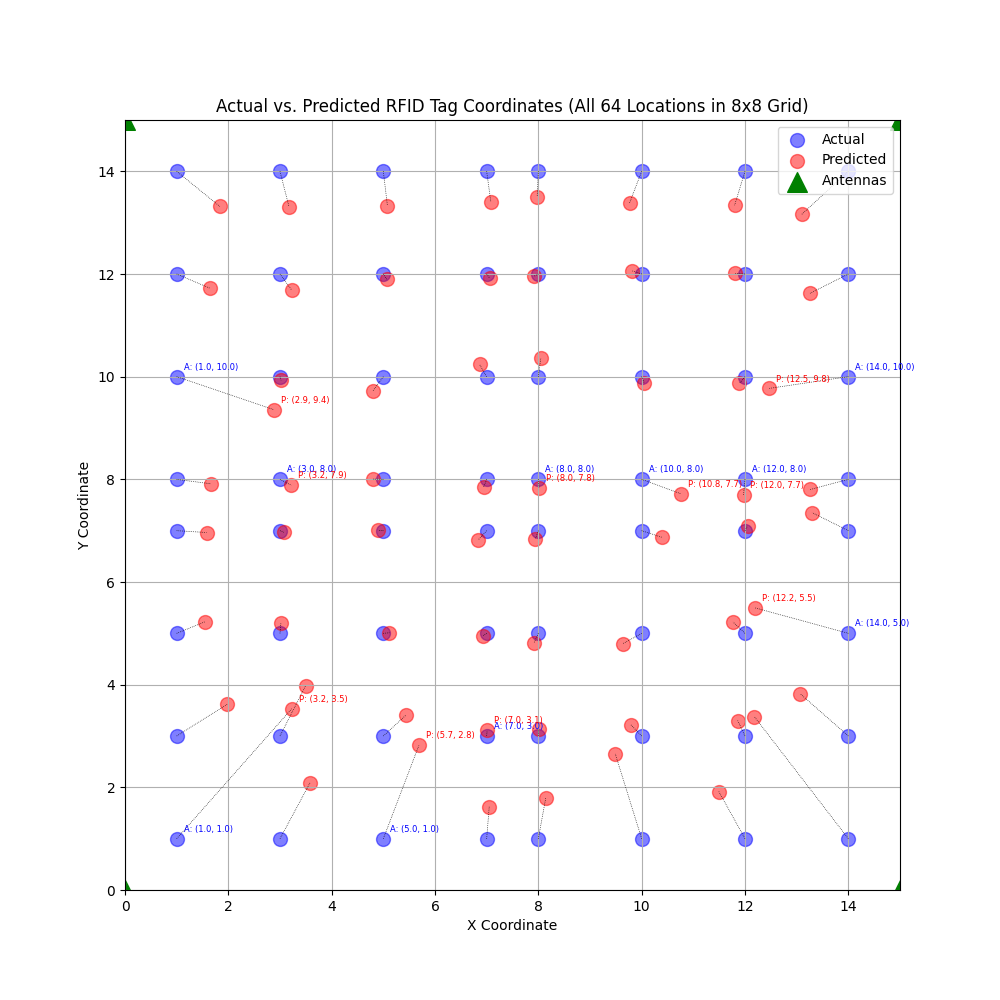
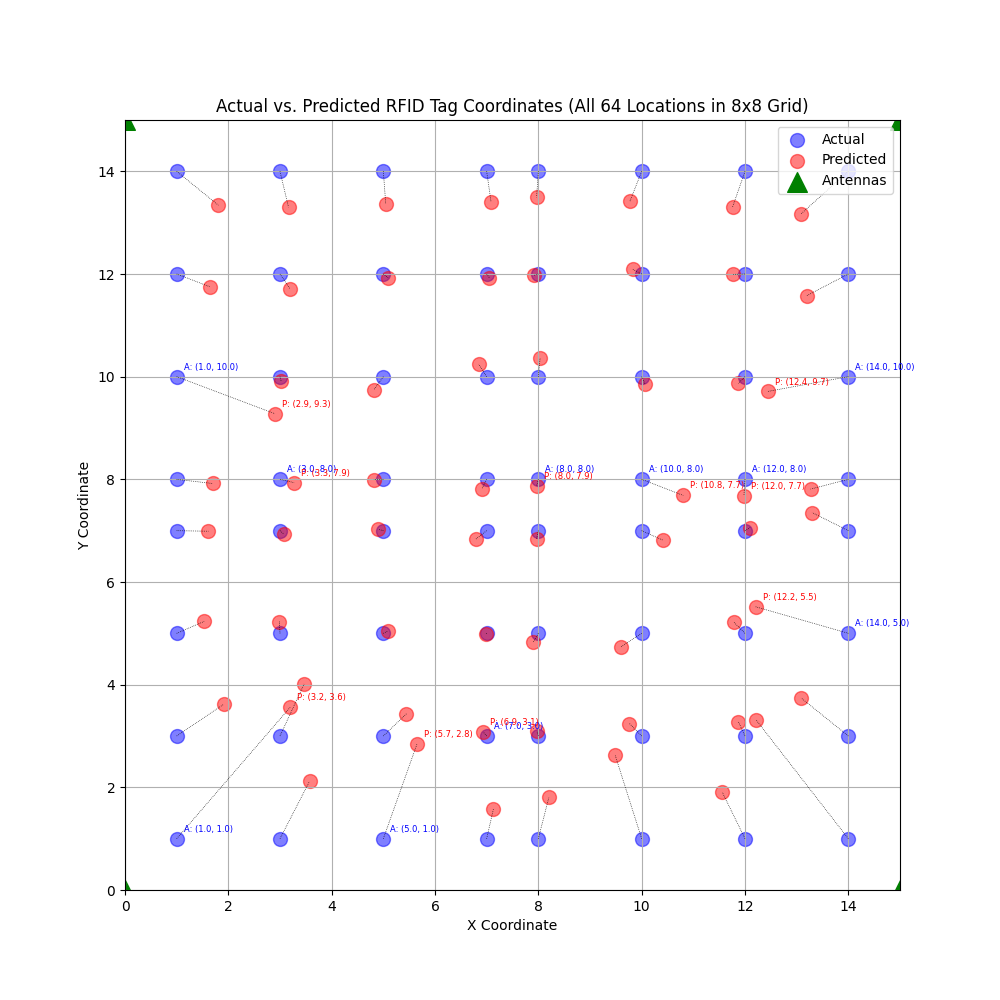
model compare

diff --git a/Models/randomForest.py b/Models/randomForest.py
@@ -2,13 +2,10 @@ import pandas as pd
 import numpy as np
 import glob
 import os
-from sklearn.model_selection import train_test_split
-from sklearn.ensemble import RandomForestRegressor, GradientBoostingRegressor
-from sklearn.svm import SVR
-from sklearn.multioutput import MultiOutputRegressor
+from sklearn.model_selection import train_test_split, RandomizedSearchCV
+from sklearn.ensemble import RandomForestRegressor
 from sklearn.preprocessing import StandardScaler
 from sklearn.metrics import mean_squared_error
-from lightgbm import LGBMRegressor
 import matplotlib.pyplot as plt
 import warnings
 warnings.filterwarnings('ignore')  # Suppress warnings for cleaner output
@@ -18,7 +15,7 @@ warnings.filterwarnings('ignore')  # Suppress warnings for cleaner output
 ######################################################
 
 # Directory for CSV files
-data_dir = '/Users/calebrozenboom/Documents/RFID_Project/RFID-Locate-main/Testing/Test8/'
+data_dir = '/Users/calebrozenboom/Documents/RFID_Project/RFID-Locate-main/Testing/Movement Testing/CircleTests/CircleTest0'
 
 ######################################################
 #--------- DATA LOADING AND PER-LOCATION PROCESSING --#
@@ -97,80 +94,41 @@ X = scaler.fit_transform(X)
 # Split data into training (80%) and testing (20%) sets
 X_train, X_test, y_train, y_test = train_test_split(X, y, test_size=0.2, random_state=42)
 
-# Define models to compare
-models = {
-    'RandomForest': RandomForestRegressor(n_estimators=1000, max_depth=30, min_samples_split=2, min_samples_leaf=1, max_features='sqrt', random_state=42, n_jobs=-1),
-    'GradientBoosting': GradientBoostingRegressor(n_estimators=1000, learning_rate=0.05, max_depth=5, random_state=42),
-    'SVR': MultiOutputRegressor(SVR(kernel='rbf', C=1.0, epsilon=0.1)),
-    'LightGBM': MultiOutputRegressor(LGBMRegressor(n_estimators=1000, learning_rate=0.05, max_depth=5, random_state=42))
+# Define hyperparameter grid for tuning
+param_grid = {
+    'n_estimators': [800, 1000, 1500, 2000],
+    'max_depth': [30, 35, 40, 45, 50],
+    'min_samples_split': [2, 5, 10],
+    'min_samples_leaf': [1, 2, 3]
 }
 
-# Train and evaluate each model
-results = {}
-best_model = None
-best_mse_avg = float('inf')
+# Perform randomized search with cross-validation
+grid_search = RandomizedSearchCV(
+    RandomForestRegressor(random_state=42),
+    param_grid,
+    n_iter=60,  # Test n random combinations
+    cv=5,
+    scoring='neg_mean_squared_error',
+    n_jobs=-1  # Use all available CPU cores
+)
+grid_search.fit(X_train, y_train)
 
-for name, model in models.items():
-    # Train the model
-    model.fit(X_train, y_train)
-    
-    # Predict on test set
-    y_pred = model.predict(X_test)
-    
-    # Calculate MSE for x and y coordinates
-    mse = mean_squared_error(y_test, y_pred, multioutput='raw_values')
-    mse_avg = np.mean(mse)  # Average MSE across x and y for model selection
-    results[name] = {'mse_x': mse[0], 'mse_y': mse[1], 'mse_avg': mse_avg}
-    
-    # Update best model if average MSE is lower
-    if mse_avg < best_mse_avg:
-        best_mse_avg = mse_avg
-        best_model = (name, model)
-    
-    print(f"{name} Test Set MSE (x, y): {mse[0]:.2f}, {mse[1]:.2f} | Average MSE: {mse_avg:.2f}")
+# Get best model and parameters
+rf_model = grid_search.best_estimator_
+print(f"Best parameters: {grid_search.best_params_}")
+print(f"Best cross-validation MSE: {-grid_search.best_score_:.2f}")
 
-# Print best model
-print(f"\nBest Model: {best_model[0]} with Average MSE: {best_mse_avg:.2f}")
-
-# Define hyperparameter grid for tuning
-# param_grid = {
-#     'n_estimators': [800, 1000, 1500, 2000],
-#     'max_depth': [30, 35, 40, 45, 50],
-#     'min_samples_split': [2, 5, 10],
-#     'min_samples_leaf': [1, 2, 3]
-# }
-
-# # Perform randomized search with cross-validation
-# grid_search = RandomizedSearchCV(
-#     RandomForestRegressor(random_state=42),
-#     param_grid,
-#     n_iter=60,  # Test n random combinations
-#     cv=5,
-#     scoring='neg_mean_squared_error',
-#     n_jobs=-1  # Use all available CPU cores
-# )
-# grid_search.fit(X_train, y_train)
-
-# # Get best model and parameters
-# rf_model = grid_search.best_estimator_
-# print(f"Best parameters: {grid_search.best_params_}")
-# print(f"Best cross-validation MSE: {-grid_search.best_score_:.2f}")
-
-# # Evaluate model on test set
-# y_pred = rf_model.predict(X_test)
-# mse = mean_squared_error(y_test, y_pred, multioutput='raw_values')
-# print(f"Test Set MSE (x, y): {mse[0]:.2f}, {mse[1]:.2f}")
+# Evaluate model on test set
+y_pred = rf_model.predict(X_test)
+mse = mean_squared_error(y_test, y_pred, multioutput='raw_values')
+print(f"Test Set MSE (x, y): {mse[0]:.2f}, {mse[1]:.2f}")
 
 ######################################################
 #------------------- PREDICTION ---------------------#
 ######################################################
 
-# Use best model for predictions
-best_model_name, best_model_instance = best_model
-y_pred = best_model_instance.predict(X_test)
-
 # Predict coordinates for the test set
-#y_pred = rf_model.predict(X_test)
+y_pred = rf_model.predict(X_test)
 #print(f"Predicted coordinates for the test set: {y_pred}")
 
 ######################################################
@@ -180,8 +138,7 @@ y_pred = best_model_instance.predict(X_test)
 # Create scatter plot of actual vs. predicted coordinates for all locations
 plt.figure(figsize=(10, 10))  # Larger figure for clarity
 plt.scatter(y['x_coord'], y['y_coord'], color='blue', label='Actual', alpha=0.5, s=100)
-y_pred_all = best_model_instance.predict(X)  # Predict for all data
-#y_pred_all = rf_model.predict(X)  # Predict for all data
+y_pred_all = rf_model.predict(X)  # Predict for all data
 plt.scatter(y_pred_all[:, 0], y_pred_all[:, 1], color='red', label='Predicted', alpha=0.5, s=100)
 
 # Add dotted lines between actual and predicted points
@@ -213,7 +170,7 @@ plt.xlim(0, 15)  # Cover tags (1 to 14) and antennas
 plt.ylim(0, 15)
 plt.grid(True)
 plt.legend()
-plt.savefig('coordinates_plot.png')
+plt.savefig('randomForest.png')
 plt.close()
 
-print("Scatter plot for all locations saved as 'coordinates_plot.png'")
+print("Scatter plot for all locations saved as 'randomForest.png'")

diff --git a/Models/modelCompare.py b/Models/modelCompare.py
@@ -1,0 +1,140 @@
+import pandas as pd
+import numpy as np
+import glob
+import os
+from sklearn.model_selection import train_test_split, GridSearchCV
+from sklearn.ensemble import RandomForestRegressor, GradientBoostingRegressor
+from sklearn.svm import SVR
+from sklearn.multioutput import MultiOutputRegressor
+from lightgbm import LGBMRegressor
+from sklearn.metrics import mean_squared_error, mean_absolute_error
+import matplotlib.pyplot as plt
+import warnings
+
+# Suppress LightGBM warnings
+warnings.filterwarnings("ignore", category=UserWarning, module="lightgbm")
+
+# Load and preprocess data
+data_dir = '/Users/calebrozenboom/Documents/RFID_Project/RFID-Locate-main/Testing/Test8/'
+all_files = glob.glob(os.path.join(data_dir, '*.csv'))
+
+data_list = []
+for file in all_files:
+    # Extract coordinates from filename, e.g., (1,1).csv -> x=1, y=1
+    filename = os.path.basename(file)
+    coords = filename.replace('.csv', '').strip('()').split(',')
+    x_coord, y_coord = float(coords[0]), float(coords[1])
+    
+    # Read CSV for this location
+    df = pd.read_csv(file)
+    
+    # Add coordinates to the dataframe
+    df['x_coord'] = x_coord
+    df['y_coord'] = y_coord
+    data_list.append(df)
+
+# Combine data, preserving location-specific structure
+all_data = pd.concat(data_list, ignore_index=True)
+
+pivot_data = all_data.groupby(['x_coord', 'y_coord', 'antenna']).agg({
+     'rssi': 'mean',
+     'phase_angle': 'mean'
+ }).unstack()
+
+# Define features and target
+feature_columns = [col for col in pivot_data.columns if col not in ['x_coord', 'y_coord']]
+X = pivot_data[feature_columns]
+y = pivot_data[['x_coord', 'y_coord']]
+
+# Split data (80/20)
+X_train, X_test, y_train, y_test = train_test_split(
+    X, y, test_size=0.2, random_state=42
+)
+
+# Define models and parameter grids
+models_params = {
+    'RandomForest': {
+        'model': RandomForestRegressor(random_state=42, n_jobs=-1),
+        'param_grid': {
+            'n_estimators': [100, 500],
+            'max_depth': [5, 10, None],
+            'min_samples_split': [2, 5],
+            'max_features': ['sqrt', 'log2']
+        }
+    },
+    'GradientBoosting': {
+        'model': MultiOutputRegressor(GradientBoostingRegressor(random_state=42)),
+        'param_grid': {
+            'estimator__n_estimators': [100, 500],
+            'estimator__learning_rate': [0.01, 0.05],
+            'estimator__max_depth': [3, 5]
+        }
+    },
+    'SVR': {
+        'model': MultiOutputRegressor(SVR(kernel='rbf')),
+        'param_grid': {
+            'estimator__C': [0.1, 1.0, 10.0],
+            'estimator__epsilon': [0.01, 0.1]
+        }
+    },
+    'LightGBM': {
+        'model': MultiOutputRegressor(LGBMRegressor(random_state=42, verbose=-1)),
+        'param_grid': {
+            'estimator__n_estimators': [100, 200],
+            'estimator__learning_rate': [0.01, 0.05],
+            'estimator__max_depth': [3, 5],
+            'estimator__num_leaves': [7, 15],
+            'estimator__min_data_in_leaf': [5, 10]
+        }
+    }
+}
+
+# Tune models and store results
+results = {}
+for name, config in models_params.items():
+    print(f"Tuning {name}...")
+    grid_search = GridSearchCV(
+        config['model'],
+        config['param_grid'],
+        cv=5,
+        scoring='neg_mean_squared_error',
+        n_jobs=-1
+    )
+    grid_search.fit(X_train, y_train)
+    best_model = grid_search.best_estimator_
+    
+    # Evaluate on test set
+    y_pred = best_model.predict(X_test)
+    mse = mean_squared_error(y_test, y_pred, multioutput='raw_values')
+    mae = mean_absolute_error(y_test, y_pred, multioutput='raw_values')
+    mse_avg = np.mean(mse)
+    results[name] = {
+        'MSE_X': mse[0],
+        'MSE_Y': mse[1],
+        'MSE_Avg': mse_avg,
+        'MAE_X': mae[0],
+        'MAE_Y': mae[1],
+        'Best_Params': grid_search.best_params_
+    }
+    print(f"{name} Best Parameters: {grid_search.best_params_}")
+    print(f"{name} Test Set MSE (x, y): {mse[0]:.2f}, {mse[1]:.2f} | Average MSE: {mse_avg:.2f} | MAE (x, y): {mae[0]:.2f}, {mae[1]:.2f}\n")
+
+# Find best model
+best_model = min(results, key=lambda x: results[x]['MSE_Avg'])
+print(f"Best Model: {best_model} with Average MSE: {results[best_model]['MSE_Avg']:.2f}")
+
+# Plot actual vs predicted coordinates for best model
+best_model_instance = models_params[best_model]['model']
+best_model_instance.fit(X_train, y_train)
+y_pred_best = best_model_instance.predict(X_test)
+
+plt.figure(figsize=(8, 8))
+plt.scatter(y_test['x_coord'], y_test['y_coord'], c='blue', label='Actual', alpha=0.6)
+plt.scatter(y_pred_best[:, 0], y_pred_best[:, 1], c='red', label='Predicted', alpha=0.6)
+plt.xlabel('X Coordinate (meters)')
+plt.ylabel('Y Coordinate (meters)')
+plt.title(f'Actual vs Predicted Coordinates ({best_model})')
+plt.legend()
+plt.grid(True)
+plt.savefig('coordinates_plot.png')
+plt.close()
